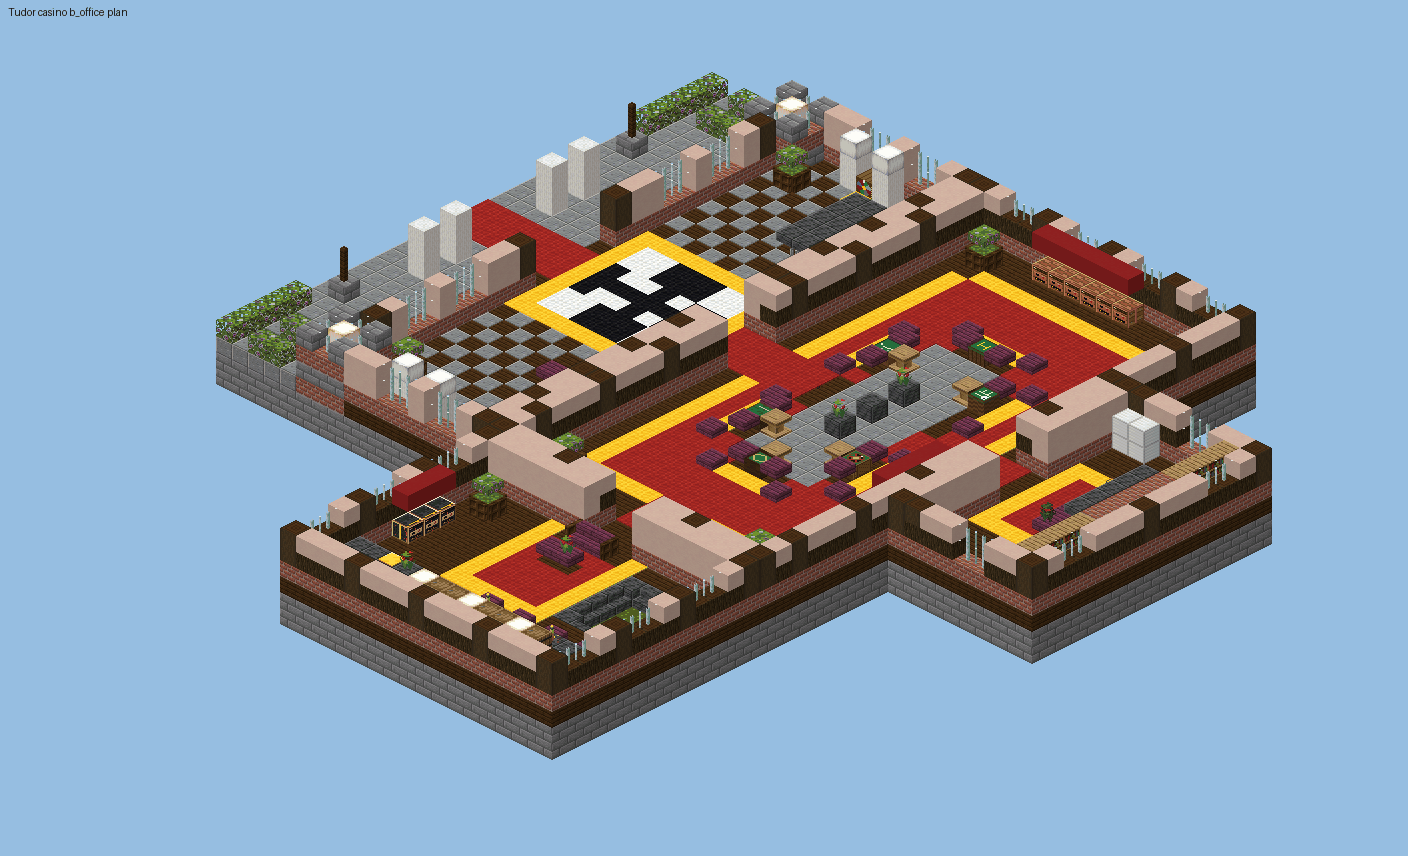
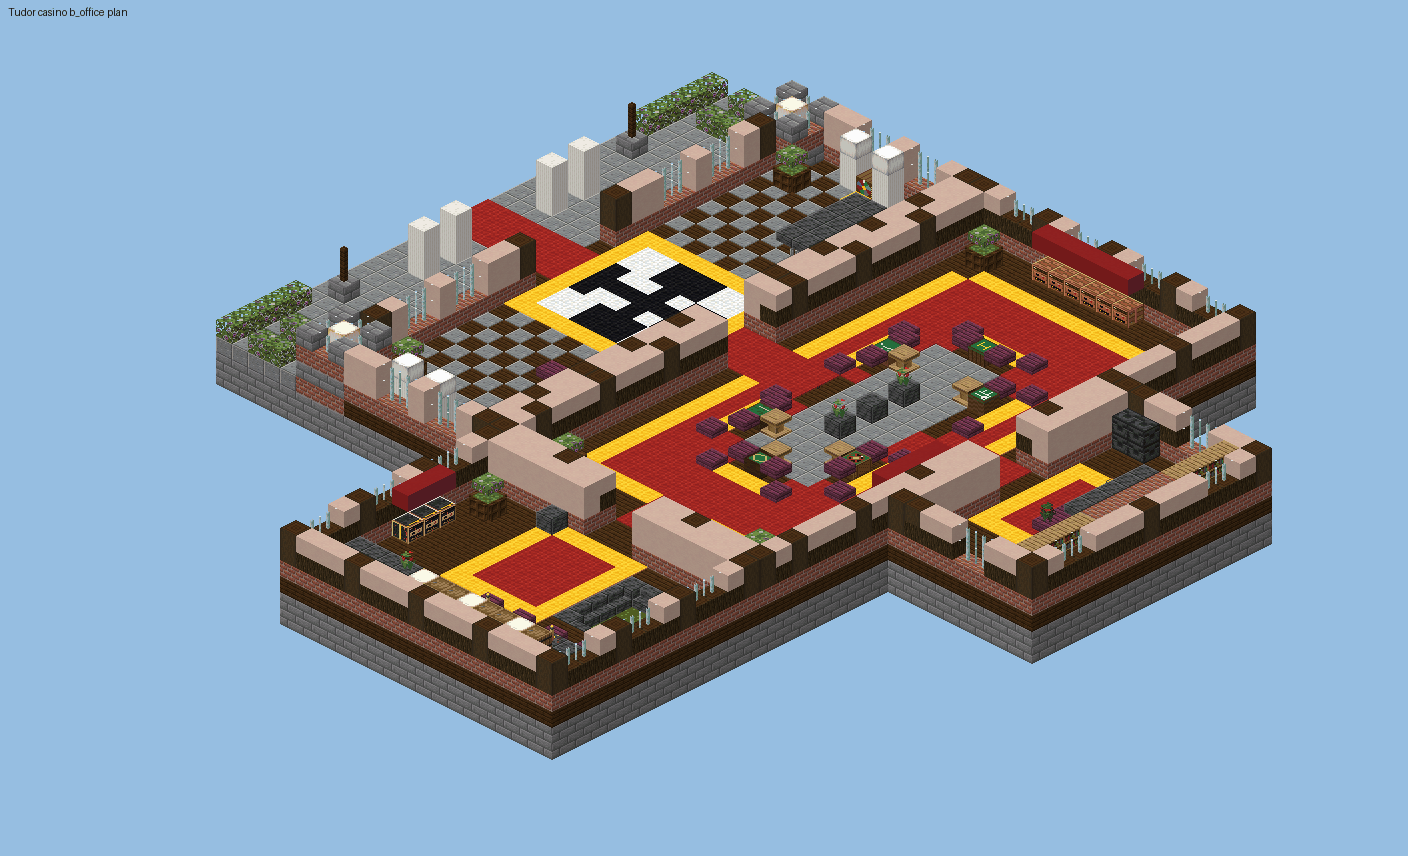
CB-2: door throats kept clear in every piece (bar sofa moved), previews regenerated
Claude-Session: https://claude.ai/code/session_015WvuDVRYv5QSzyNo1FbWK1

Changed region(s): [[0.375, 0.5771, 0.4688, 0.6682], [0.7812, 0.4556, 0.8438, 0.5467], [0.25, 0.6379, 0.2812, 0.6682]]

diff --git a/java/src/main/java/dev/nezo/burmaldaholic/worldgen/logic/pieces/OverworldCasino.java b/java/src/main/java/dev/nezo/burmaldaholic/worldgen/logic/pieces/OverworldCasino.java
@@ -313,6 +313,16 @@ public final class OverworldCasino {
 		b.inlay(suit, cx - h + 1, ROW, cz - h + 1, BlockSpec.mc(suit.red() ? "red_carpet" : "black_carpet"));
 	}
 
+	/**
+	 * Door throat: the 3-wide doorway at the wall cell ({@code x}, {@code z}) facing {@code out} and the two
+	 * cells inside it stay walkable for {@link #DOOR_H} − 1 rows (nothing may stand in a door, not even a sofa).
+	 */
+	public static void throat(Blueprint b, int x, int z, Facing out) {
+		Facing along = out.rotate(1);
+		int ix = x - 2 * out.dx(), iz = z - 2 * out.dz();
+		b.keepClear(x - along.dx(), ROW, z - along.dz(), ix + along.dx(), ROW + DOOR_H - 2, iz + along.dz());
+	}
+
 	/** Roof hook: the style's own roof, else the given default. */
 	public static void roof(Style s, Blueprint b, Style.Hall hall, Runnable fallback) {
 		if (!s.signature().roof(b, hall)) {
@@ -512,6 +522,7 @@ public final class OverworldCasino {
 		b.kit(Kits.chandelier(2), 7, 11, 6, Facing.SOUTH);
 		b.kit(Kits.chandelier(2), 23, 11, 6, Facing.SOUTH);
 		b.keepClear(13, ROW, 9, 17, ROW + 3, 11);
+		throat(b, 15, 0, Facing.NORTH);
 		b.aisle(14, ROW, 1, 16, 9);
 
 		s.signature().decorate(b, Part.ENTRANCE);
@@ -654,6 +665,9 @@ public final class OverworldCasino {
 	}
 
 	private static Piece finishFloor(Style s, Blueprint b, Part part) {
+		throat(b, 15, 16, Facing.SOUTH);
+		throat(b, 15, 0, Facing.NORTH);
+		throat(b, 30, 8, Facing.EAST);
 		s.signature().decorate(b, part);
 		b.entry(15, ROW, 16);
 		b.entry(15, ROW, 0);
@@ -725,7 +739,8 @@ public final class OverworldCasino {
 		b.kit(Kits.grandChandelier(3), 8, 11, 7, Facing.SOUTH);
 		b.kit(Kits.chandelier(2), 3, 11, 8, Facing.SOUTH);
 		b.kit(Kits.planter(), 14, ROW, 10, Facing.SOUTH);
-		b.kit(Kits.vipSofa(2), 9, ROW, 11, Facing.NORTH);
+		b.kit(Kits.chipStacks(), 11, ROW, 11, Facing.SOUTH);
+		throat(b, 8, 12, Facing.SOUTH);
 		s.signature().decorate(b, Part.BAR);
 		b.entry(8, ROW, 12);
 		b.jigsaw(8, FLOOR_Y, 12, Facing.SOUTH, BAR_SIDE, FLOOR_SIDE, EMPTY_POOL, s.palette().block(Role.FLOOR));
@@ -774,6 +789,7 @@ public final class OverworldCasino {
 		b.banner(4, ROW + 4, 1, Facing.SOUTH, "red", suitLayers(Suit.HEART));
 		b.banner(10, ROW + 4, 1, Facing.SOUTH, "red", suitLayers(Suit.SPADE));
 		s.signature().decorate(b, Part.OFFICE);
+		throat(b, 7, 8, Facing.SOUTH);
 		b.entry(7, ROW, 8);
 		b.jigsaw(7, FLOOR_Y, 8, Facing.SOUTH, REAR_FRONT, FLOOR_BACK, EMPTY_POOL, s.palette().block(Role.FLOOR));
 		return b.build();
@@ -825,6 +841,7 @@ public final class OverworldCasino {
 		b.fill(6, ROW + 4, 11, 10, ROW + 4, 11, Role.TRIM);
 		b.set(8, ROW + 4, 11, Role.BULB);
 		bannerPair(b, 6, 10, ROW + 3, 12, Facing.SOUTH, Suit.DIAMOND, Suit.HEART);
+		throat(b, 8, 12, Facing.SOUTH);
 		s.signature().decorate(b, Part.VIP);
 		b.entry(8, ROW, 12);
 		b.jigsaw(8, FLOOR_Y, 12, Facing.SOUTH, REAR_FRONT, FLOOR_BACK, EMPTY_POOL, s.palette().block(Role.FLOOR));
